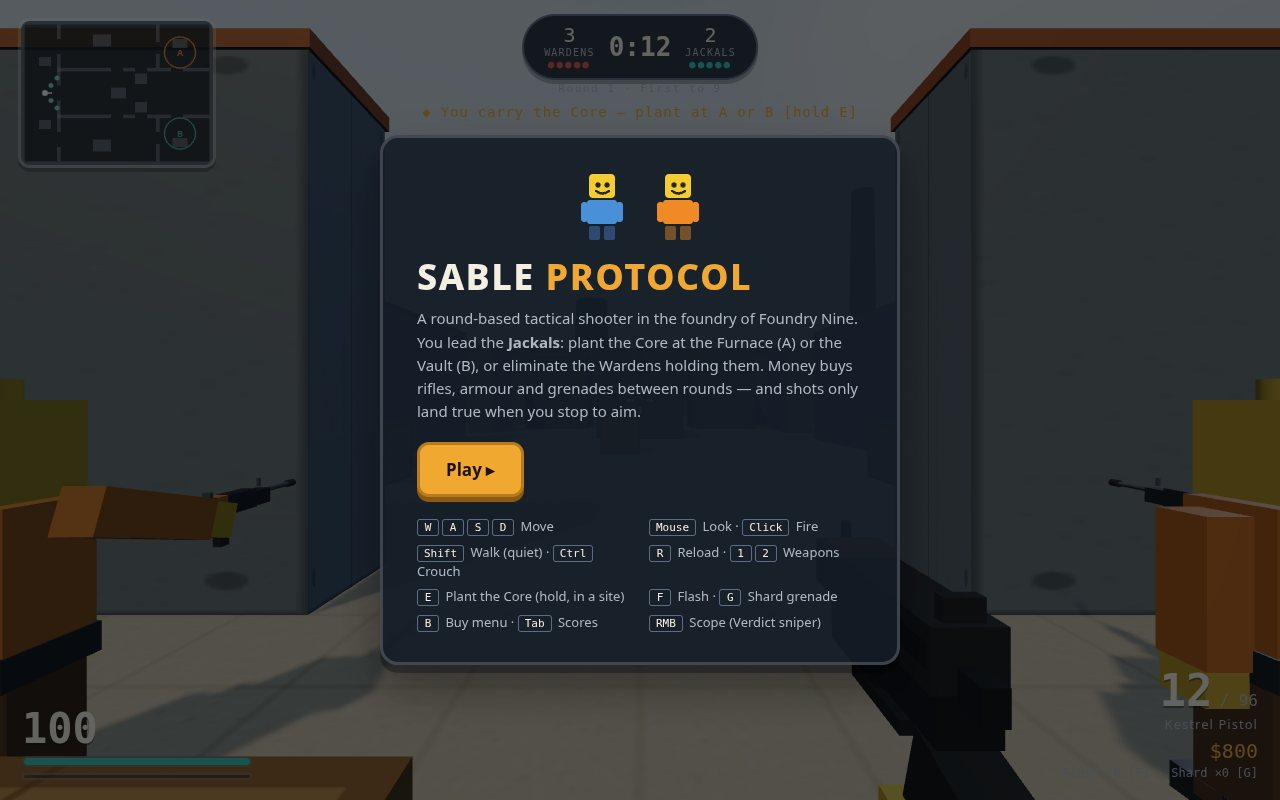
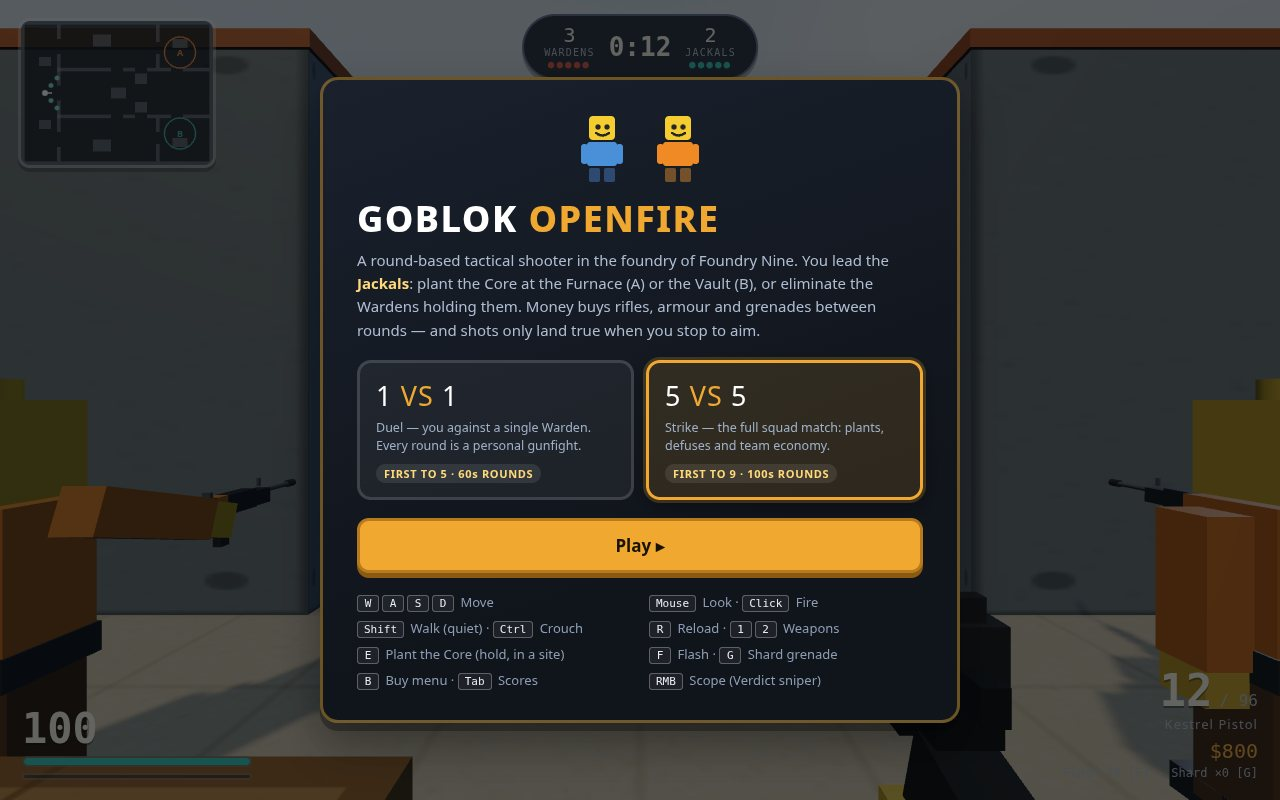
Rename to Goblok Openfire; lobby with 1v1 Duel and 5v5 Strike modes
The game is renamed throughout (title, menu, README, code headers).
The menu becomes a dark tactical lobby with two mode cards: Duel
(1 vs 1 — first to 5, 60-second rounds, $1000 start) and Strike
(5 vs 5 — first to 9, 100-second rounds, $800 start). Starting a match
copies the mode numbers into the rules and benches the bots the mode
does not field; benched actors stay dead and invisible, so plans,
scoreboard and round flow only ever see the fielded teams. The end
screen gains a Lobby button so the mode can be changed between
matches.

Changed region(s): [[0.25, 0.0938, 0.75, 0.9375]]

diff --git a/game/src/main.js b/game/src/main.js
@@ -1,4 +1,4 @@
-// SABLE PROTOCOL — a round-based tactical FPS in three.js.
+// GOBLOK OPENFIRE — a round-based tactical FPS in three.js.
 // Wardens defend two foundry sites; Jackals carry the Core and plant it.
 // Money between rounds buys rifles, a sniper, armour and grenades; spread
 // punishes firing on the move, so the game rewards stopping, aiming and
@@ -7,7 +7,7 @@
 // deterministic screenshot modes the entry's screenshots are taken with.
 
 import * as THREE from 'three';
-import { TEAM, TEAM_NAME, RULES, WEAPONS, GRENADES, ARMOR_PRICE, BODY } from './config.js';
+import { TEAM, TEAM_NAME, RULES, MODES, WEAPONS, GRENADES, ARMOR_PRICE, BODY } from './config.js';
 import { buildWorld, SITES, SPAWNS } from './map.js';
 import { initInput, input, lockPointer, consumeEdges } from './input.js';
 import { makePlayerActor, stepPlayer } from './player.js';
@@ -215,6 +215,8 @@ const game = {
   grenades: [],
   sites: { A: SITES[0], B: SITES[1] },
   phase: 'menu', // menu | buy | live | roundEnd | matchEnd
+  mode: 'strike',       // the mode of the match in progress
+  pendingMode: 'strike', // the mode picked on the lobby cards
   phaseTimeLeft: 0,
   round: 0,
   score: [0, 0],
@@ -353,6 +355,38 @@ function resetActor(a, spawn) {
   }
 }
 
+// --- Match modes ------------------------------------------------------------------
+// The lobby cards pick a mode; starting a match copies its numbers into
+// RULES and benches every bot the mode does not field. Benched actors stay
+// dead and invisible for the whole match, so the round flow, the AI plans
+// and the scoreboard all see only the fielded teams.
+function applyMode(id) {
+  game.mode = id;
+  const m = MODES[id];
+  RULES.winTarget = m.winTarget;
+  RULES.maxRounds = m.maxRounds;
+  RULES.roundTime = m.roundTime;
+  RULES.startMoney = m.startMoney;
+  let jackalBots = 0;
+  let wardenBots = 0;
+  for (const a of game.actors) {
+    if (a.isPlayer) { a.benched = false; continue; }
+    const idx = a.team === TEAM.JACKAL ? jackalBots++ : wardenBots++;
+    const fielded = a.team === TEAM.JACKAL ? m.perTeam - 1 : m.perTeam;
+    a.benched = idx >= fielded;
+    if (a.benched) {
+      a.alive = false;
+      if (a.mesh) a.mesh.visible = false;
+    }
+  }
+}
+
+function freshMatch() {
+  game.score = [0, 0];
+  game.round = 0;
+  for (const a of game.actors) { a.money = RULES.startMoney; a.loadout = makeLoadout(); a.kills = 0; a.deaths = 0; }
+}
+
 function nextRound() {
   game.round += 1;
   game.grenades.forEach((g) => scene.remove(g.mesh));
@@ -364,12 +398,13 @@ function nextRound() {
   for (const a of game.actors) {
     if (a.team === TEAM.JACKAL) resetActor(a, jackalSpawns[ji++ % jackalSpawns.length]);
     else resetActor(a, wardenSpawns[wi++ % wardenSpawns.length]);
+    if (a.benched) { a.alive = false; if (a.mesh) a.mesh.visible = false; }
     a.carryCore = false;
   }
-  // The Core goes to a random Jackal — the player carries it about half the
-  // time, so planting is regularly in the player's own hands.
-  const jackals = game.actors.filter((a) => a.team === TEAM.JACKAL);
-  const carrier = game.rng() < 0.5 ? player : jackals[1 + ((game.rng() * 4) | 0)];
+  // The Core goes to a random fielded Jackal — in a duel that is always
+  // the player; in a strike it lands on a teammate about as often.
+  const jackals = game.actors.filter((a) => a.team === TEAM.JACKAL && !a.benched);
+  const carrier = jackals[(game.rng() * jackals.length) | 0];
   carrier.carryCore = true;
   game.bomb = {
     state: 'carried', carrier, pos: carrier.pos.clone(), site: null,
@@ -387,6 +422,7 @@ function endRound(winner, reason) {
   game.phaseTimeLeft = RULES.endTime;
   game.score[winner] += 1;
   for (const a of game.actors) {
+    if (a.benched) continue;
     if (a.team === winner) a.money = Math.min(RULES.maxMoney, a.money + RULES.rewardWin);
     else a.money = Math.min(RULES.maxMoney, a.money + (game.bomb.state === 'exploded' || game.bomb.state === 'planted' ? RULES.rewardPlantedLoss : RULES.rewardLoss));
   }
@@ -661,10 +697,17 @@ function poseCamera(frameDt) {
 
 // --- Wiring: menu, pointer lock, keys ------------------------------------------------
 initInput(renderer.domElement, unlockAudio);
+for (const id of ['duel', 'strike']) {
+  document.getElementById('mode-' + id).addEventListener('click', () => {
+    game.pendingMode = id;
+    document.getElementById('mode-duel').classList.toggle('selected', id === 'duel');
+    document.getElementById('mode-strike').classList.toggle('selected', id === 'strike');
+  });
+}
 document.getElementById('play').addEventListener('click', () => {
   unlockAudio();
   game.hud.showMenu(false);
-  if (game.phase === 'menu') nextRound();
+  if (game.phase === 'menu') { applyMode(game.pendingMode); freshMatch(); nextRound(); }
 });
 document.getElementById('deploy').addEventListener('click', () => {
   game.hud.showBuy(false);
@@ -672,10 +715,13 @@ document.getElementById('deploy').addEventListener('click', () => {
 });
 document.getElementById('again').addEventListener('click', () => {
   game.hud.hideEnd();
-  game.score = [0, 0];
-  game.round = 0;
-  for (const a of game.actors) { a.money = RULES.startMoney; a.loadout = makeLoadout(); a.kills = 0; a.deaths = 0; }
+  freshMatch();
   nextRound();
+});
+document.getElementById('lobby').addEventListener('click', () => {
+  game.hud.hideEnd();
+  game.phase = 'menu';
+  game.hud.showMenu(true);
 });
 renderer.domElement.addEventListener('mousedown', () => {
   if ((game.phase === 'live' || game.phase === 'buy') && !input.locked && game.hud.el.buyMenu.hidden && !shotMode) {

diff --git a/game/index.html b/game/index.html
@@ -3,7 +3,7 @@
 <head>
 <meta charset="utf-8">
 <meta name="viewport" content="width=device-width, initial-scale=1">
-<title>Sable Protocol — a three.js tactical FPS</title>
+<title>Goblok Openfire — a three.js tactical FPS</title>
 <style>
   /* Look plan: bright toy foundry. Chunky rounded panels with hard shadows,
      bone text, teal for the player's team and health, amber for money and
@@ -108,6 +108,24 @@
   .mascot { display: block; margin: 0 auto 10px; }
   .cta:hover { background: #ffb63e; }
   .cta:active { transform: translateY(3px); box-shadow: 0 2px 0 #8a5a12; }
+  .cta.ghost { background: transparent; color: #b97a1d; border-color: rgba(185,122,29,.55); box-shadow: none; margin-left: 10px; }
+  /* The lobby: a dark tactical theme over the yard, with mode cards. */
+  #menu .panel { width: min(640px, 100%); background: linear-gradient(160deg, #1a212d, #10141b 70%); border-color: rgba(245,178,49,.4); color: #e8edf4; }
+  #menu .panel h1 { color: #fff; }
+  #menu .panel p { color: #aebdd2; }
+  #menu .panel p b { color: #ffd97a; }
+  #menu .keys { color: #8d9db4; }
+  #menu .keys kbd { color: #e8edf4; border-color: rgba(255,255,255,.28); background: rgba(255,255,255,.06); }
+  #menu .cta { width: 100%; margin-top: 16px; }
+  .modes { display: grid; grid-template-columns: 1fr 1fr; gap: 12px; margin: 4px 0 2px; }
+  .mode-card { font: inherit; text-align: left; padding: 14px 16px; border-radius: 14px; border: 3px solid rgba(255,255,255,.14); background: rgba(255,255,255,.05); color: #dbe4f0; cursor: pointer; transition: border-color 80ms ease, background 80ms ease; }
+  .mode-card:hover { border-color: rgba(245,178,49,.55); }
+  .mode-card.selected { border-color: var(--amber); background: rgba(245,178,49,.13); box-shadow: 0 0 0 3px rgba(245,178,49,.2), 0 6px 18px rgba(0,0,0,.35); }
+  .mode-name { display: block; font-family: var(--font-display); font-size: 27px; letter-spacing: .04em; color: #fff; }
+  .mode-name em { font-style: normal; color: var(--amber); }
+  .mode-desc { display: block; margin-top: 5px; font-size: 12.5px; line-height: 1.45; color: #9fb0c6; }
+  .mode-tag { display: inline-block; margin-top: 9px; padding: 2px 8px; border-radius: 999px; background: rgba(255,255,255,.09); font-size: 11px; font-weight: 700; letter-spacing: .06em; color: #ffd97a; }
+  @media (max-width: 560px) { .mode-name { font-size: 21px; } .mode-desc { font-size: 11.5px; } }
   .keys { margin: 20px 0 0; padding: 0; list-style: none; display: grid; grid-template-columns: 1fr 1fr; gap: 7px 18px; font-size: 13px; color: var(--muted); }
   .keys kbd { display: inline-block; min-width: 22px; padding: 1px 6px; border: 1px solid var(--hairline); border-radius: 3px; font-family: var(--font-readout); font-size: 11px; color: var(--ink); text-align: center; margin-right: 3px; }
 
@@ -288,8 +306,20 @@
         <rect x="76" y="34" width="7" height="20" rx="3" fill="#f08a24"/><rect x="111" y="34" width="7" height="20" rx="3" fill="#f08a24"/>
       </g>
     </svg>
-    <h1 id="menu-title">SABLE <span>PROTOCOL</span></h1>
+    <h1 id="menu-title">GOBLOK <span>OPENFIRE</span></h1>
     <p>A round-based tactical shooter in the foundry of Foundry Nine. You lead the <b>Jackals</b>: plant the Core at the Furnace (A) or the Vault (B), or eliminate the Wardens holding them. Money buys rifles, armour and grenades between rounds — and shots only land true when you stop to aim.</p>
+    <div class="modes" role="group" aria-label="Match mode">
+      <button class="mode-card" id="mode-duel" type="button">
+        <span class="mode-name">1 <em>VS</em> 1</span>
+        <span class="mode-desc">Duel — you against a single Warden. Every round is a personal gunfight.</span>
+        <span class="mode-tag">FIRST TO 5 · 60s ROUNDS</span>
+      </button>
+      <button class="mode-card selected" id="mode-strike" type="button">
+        <span class="mode-name">5 <em>VS</em> 5</span>
+        <span class="mode-desc">Strike — the full squad match: plants, defuses and team economy.</span>
+        <span class="mode-tag">FIRST TO 9 · 100s ROUNDS</span>
+      </button>
+    </div>
     <button id="play" class="cta" type="button">Play ▸</button>
     <ul class="keys">
       <li class="kb-row"><span><kbd>W</kbd><kbd>A</kbd><kbd>S</kbd><kbd>D</kbd></span> Move</li>
@@ -310,6 +340,7 @@
     <h1 id="end-title">MATCH WON</h1>
     <p id="end-sub"></p>
     <button id="again" class="cta" type="button">Play again ▸</button>
+    <button id="lobby" class="cta ghost" type="button">Lobby</button>
   </section>
 </div>
 

diff --git a/game/src/bots.js b/game/src/bots.js
@@ -1,4 +1,4 @@
-// SABLE PROTOCOL — the bots. Each bot is a body on the same physics as the
+// GOBLOK OPENFIRE — the bots. Each bot is a body on the same physics as the
 // player (circle collision, gravity, the same weapon code) driven by a small
 // state machine: follow a waypoint route to an objective, hold a position and
 // scan, or fight a seen enemy with bursts and strafes. Perception is honest:
@@ -186,7 +186,7 @@ export function assignPlans(game) {
   const rng = game.rng;
   const site = rng() < 0.62 ? 'A' : 'B';
   const alt = site === 'A' ? 'B' : 'A';
-  const jackals = game.actors.filter((a) => !a.isPlayer && a.team === TEAM.JACKAL);
+  const jackals = game.actors.filter((a) => !a.isPlayer && !a.benched && a.team === TEAM.JACKAL);
   const routes = {
     A: ['aLongOut', 'aSiteIn', 'aMain', 'aShort'],
     B: ['bTunOut', 'bSiteIn', 'bMain', 'bShort'],
@@ -203,7 +203,7 @@ export function assignPlans(game) {
     // The player carries: bots push the chosen site ahead of them.
     jackals.forEach((bot, i) => { bot.plan = { role: 'push', site, via: routes[site][i % routes[site].length] }; });
   }
-  const wardens = game.actors.filter((a) => a.team === TEAM.WARDEN);
+  const wardens = game.actors.filter((a) => !a.benched && a.team === TEAM.WARDEN);
   const holds = [
     { site: 'A', holdId: 'aSite' }, { site: 'A', holdId: 'aSiteBack' }, { site: 'A', holdId: 'aLobby' },
     { site: 'B', holdId: 'bSite' }, { site: 'B', holdId: 'bSiteBack' },

diff --git a/game/src/config.js b/game/src/config.js
@@ -1,4 +1,4 @@
-// SABLE PROTOCOL — shared configuration.
+// GOBLOK OPENFIRE — shared configuration.
 // One place for the numbers the rest of the game reads: the palette, the two
 // teams, the weapon table, the economy and the round rules. Nothing here
 // touches the DOM or three.js, so the simulation and the HUD read the same
@@ -48,6 +48,14 @@ export const RULES = {
   rewardKill: 300,
   rewardPlant: 300,        // extra for the planter's whole team
   rewardPlantedLoss: 800,  // attackers still earn this if a planted round is lost
+};
+
+// Match modes, chosen in the lobby. The active mode's numbers are copied
+// into RULES when a match starts; perTeam benches the unused bots, so a
+// duel is the same simulation with nine actors sitting out.
+export const MODES = {
+  duel: { perTeam: 1, winTarget: 5, maxRounds: 9, roundTime: 60, startMoney: 1000 },
+  strike: { perTeam: 5, winTarget: 9, maxRounds: 16, roundTime: 100, startMoney: 800 },
 };
 
 // The arsenal. Damage is per pellet/bullet at point blank; falloff is applied

diff --git a/game/src/hud.js b/game/src/hud.js
@@ -1,4 +1,4 @@
-// SABLE PROTOCOL — the HUD. Plain DOM over the canvas: health and armour,
+// GOBLOK OPENFIRE — the HUD. Plain DOM over the canvas: health and armour,
 // ammunition, money, the round clock and score, a kill feed, round banners,
 // the buy menu, a Tab scoreboard and a canvas minimap fed by the same wall
 // list the simulation uses. Text nodes are only rewritten when their value
@@ -96,7 +96,7 @@ export function createHUD(game) {
     showScoreboard(show) {
       el.scoreboard.hidden = !show;
       if (!show) return;
-      const rows = [...game.actors].sort((a, b) => (b.kills - a.kills) || (a.deaths - b.deaths));
+      const rows = game.actors.filter((a) => !a.benched).sort((a, b) => (b.kills - a.kills) || (a.deaths - b.deaths));
       el.scoreRows.innerHTML = rows.map((a) => `
         <tr class="${a.team === game.player.team ? 'us' : 'them'}${a.alive ? '' : ' dead'}">
           <td>${a.isPlayer ? '★ ' : ''}${a.name}</td><td>${TEAM_NAME[a.team]}</td>

diff --git a/game/src/player.js b/game/src/player.js
@@ -1,4 +1,4 @@
-// SABLE PROTOCOL — the human player's body. Mouse look, acceleration-based
+// GOBLOK OPENFIRE — the human player's body. Mouse look, acceleration-based
 // movement with friction, crouching, jumping and wall collision, all stepped
 // at the simulation's fixed rate so the feel does not depend on frame rate.
 // The camera and viewmodel are posed by main.js from the state kept here.

diff --git a/game/src/weapons.js b/game/src/weapons.js
@@ -1,4 +1,4 @@
-// SABLE PROTOCOL — weapons and combat. Hitscan gunfire resolved against the
+// GOBLOK OPENFIRE — weapons and combat. Hitscan gunfire resolved against the
 // map's wall boxes and two body spheres per actor (head and chest), so a
 // headshot is a place, not a dice roll. Spread grows with movement and with
 // sustained fire; standing still and tapping is the accurate way to shoot,

diff --git a/game/src/input.js b/game/src/input.js
@@ -1,4 +1,4 @@
-// SABLE PROTOCOL — input. Keyboard state, mouse look through pointer lock,
+// GOBLOK OPENFIRE — input. Keyboard state, mouse look through pointer lock,
 // one-shot action edges (fire pressed, reload pressed, number keys) that the
 // fixed-step simulation consumes exactly once, and a full touch layer for
 // mobile: a virtual joystick, drag-to-look on the view, and a button for

diff --git a/game/src/audio.js b/game/src/audio.js
@@ -1,4 +1,4 @@
-// SABLE PROTOCOL — synthesized sound. No audio files: every effect is built
+// GOBLOK OPENFIRE — synthesized sound. No audio files: every effect is built
 // from oscillators and filtered noise in WebAudio, so the game ships as pure
 // code and still cracks, clicks and booms. One shared context, created lazily
 // on the first user gesture (browsers refuse audio before one).

diff --git a/main.ts b/main.ts
@@ -1,4 +1,4 @@
-// SABLE PROTOCOL — the hand-in program (Node 22, standard library only).
+// GOBLOK OPENFIRE — the hand-in program (Node 22, standard library only).
 // The game itself is the static site in game/ (ES modules, no build step);
 // this program copies game/ and screenshots/ into the output directory and
 // writes the dossier the judge reads, using the kit's vendored library so

diff --git a/game/src/map.js b/game/src/map.js
@@ -1,4 +1,4 @@
-// SABLE PROTOCOL — Foundry Nine, the map. One original layout: a dusk
+// GOBLOK OPENFIRE — Foundry Nine, the map. One original layout: a dusk
 // foundry yard with two plant sites (the Furnace in the north, the Vault in
 // the south), a mid crossing, two long lanes and short connectors, so every
 // round offers at least three routes to each site. The same wall list drives

diff --git a/serve.ts b/serve.ts
@@ -64,5 +64,5 @@ createServer((request, response) => {
   // deterministic screenshot modes); the file path ignores it by design.
   createReadStream(file).pipe(response);
 }).listen(port, '127.0.0.1', () => {
-  console.log(`Sable Protocol is on http://localhost:${port}`);
+  console.log(`Goblok Openfire is on http://localhost:${port}`);
 });
